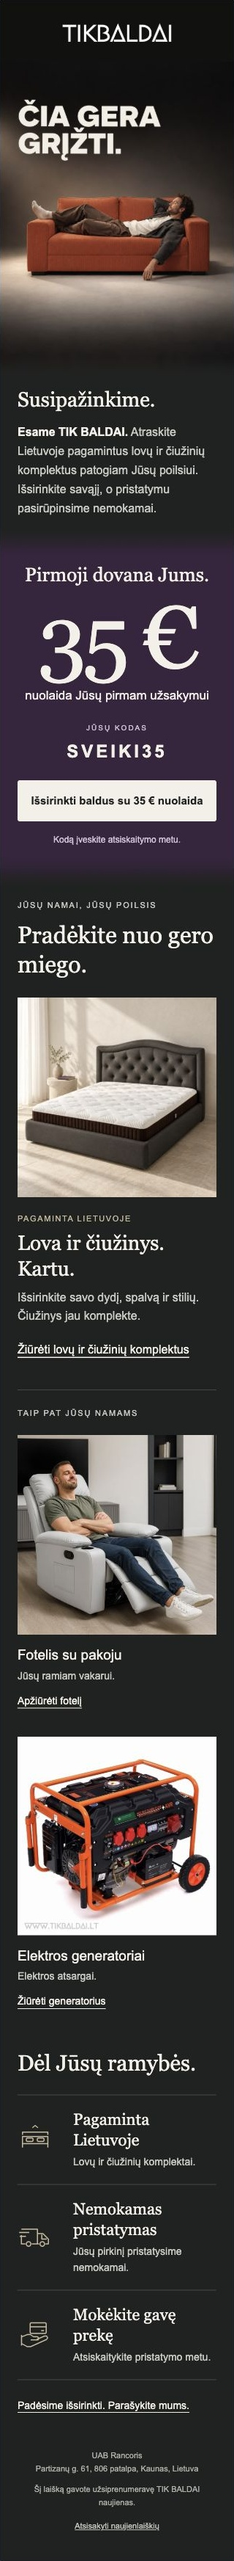
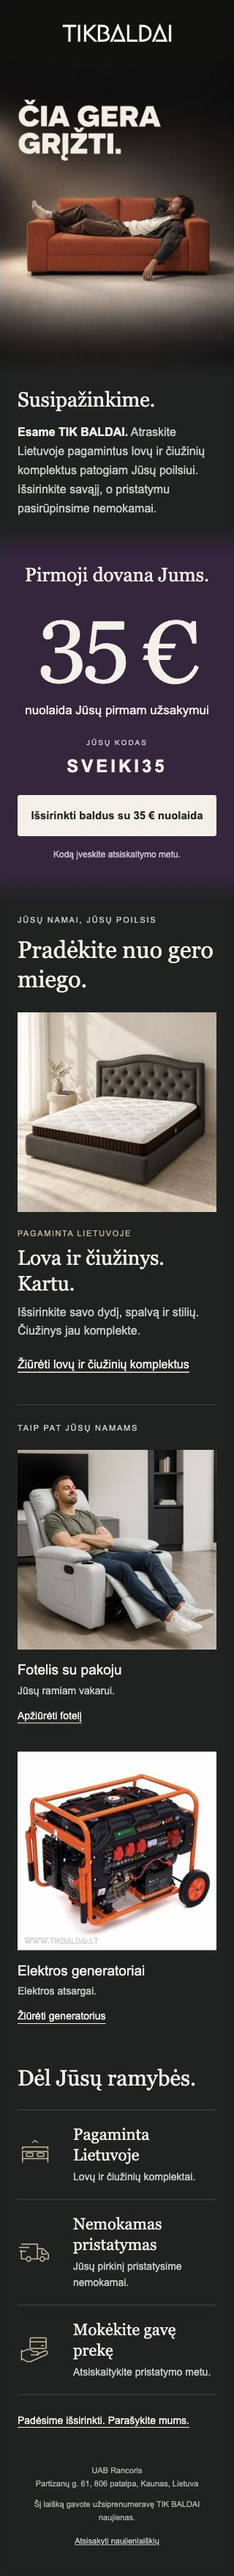
Align Welcome 1 discount numerals with euro symbol

diff --git a/welcome-01/email.html b/welcome-01/email.html
@@ -19,7 +19,7 @@
 <tr><td style="padding:0;font-size:0;line-height:0;background-color:#202221;background-image:linear-gradient(#202221,#38243F);"><img src="https://raw.githubusercontent.com/elaiskai/tikbaldai/487eefb3aa6b625d4db31dfb89e7e63076cf1da3/assets/welcome-01/offer-transition-in-v4-6524af04d59c.png" width="600" alt="" style="display:block;width:100%;max-width:600px;height:auto;border:0;margin:-1px 0;"></td></tr>
 <tr><td align="center" class="inner-pad" bgcolor="#38243F" style="padding:3px 24px 12px;background-color:#38243F;">
  <p style="margin:0 0 2px;font-family:Georgia,Times New Roman,serif;font-size:26px;line-height:34px;color:#F4F0E8;">Pirmoji dovana Jums.</p>
- <p style="margin:0;font-family:Georgia,Times New Roman,serif;font-size:120px;line-height:132px;font-weight:400;letter-spacing:-5px;color:#F4F0E8;">35 €</p>
+ <p style="margin:0;font-family:Georgia,Times New Roman,serif;font-size:120px;line-height:132px;font-weight:400;letter-spacing:-5px;color:#F4F0E8;"><span style="vertical-align:20px;">35</span> €</p>
  <p style="margin:0 0 24px;font-family:Arial,Helvetica,sans-serif;font-size:17px;line-height:25px;color:#F4F0E8;">nuolaida Jūsų pirmam užsakymui</p>
  <p style="margin:0 0 9px;font-family:Arial,Helvetica,sans-serif;font-size:10px;line-height:17px;letter-spacing:2px;color:#D3C2D8;">JŪSŲ KODAS</p>
  <p style="margin:0 0 24px;font-family:Arial,Helvetica,sans-serif;font-size:24px;line-height:30px;font-weight:700;letter-spacing:4px;color:#F4F0E8;">SVEIKI35</p>

diff --git a/welcome-01/qa-stripped.html b/welcome-01/qa-stripped.html
@@ -20,7 +20,7 @@
 <tr><td style="padding:0;font-size:0;line-height:0;background-color:#202221;background-image:linear-gradient(#202221,#38243F);"><img alt="" src="https://raw.githubusercontent.com/elaiskai/tikbaldai/487eefb3aa6b625d4db31dfb89e7e63076cf1da3/assets/welcome-01/offer-transition-in-v4-6524af04d59c.png" style="display:block;width:100%;max-width:600px;height:auto;border:0;margin:-1px 0;" width="600"/></td></tr>
 <tr><td align="center" bgcolor="#38243F" class="inner-pad" style="padding:3px 24px 12px;background-color:#38243F;">
 <p style="margin:0 0 2px;font-family:Georgia,Times New Roman,serif;font-size:26px;line-height:34px;color:#F4F0E8;">Pirmoji dovana Jums.</p>
-<p style="margin:0;font-family:Georgia,Times New Roman,serif;font-size:120px;line-height:132px;font-weight:400;letter-spacing:-5px;color:#F4F0E8;">35 €</p>
+<p style="margin:0;font-family:Georgia,Times New Roman,serif;font-size:120px;line-height:132px;font-weight:400;letter-spacing:-5px;color:#F4F0E8;"><span style="vertical-align:20px;">35</span> €</p>
 <p style="margin:0 0 24px;font-family:Arial,Helvetica,sans-serif;font-size:17px;line-height:25px;color:#F4F0E8;">nuolaida Jūsų pirmam užsakymui</p>
 <p style="margin:0 0 9px;font-family:Arial,Helvetica,sans-serif;font-size:10px;line-height:17px;letter-spacing:2px;color:#D3C2D8;">JŪSŲ KODAS</p>
 <p style="margin:0 0 24px;font-family:Arial,Helvetica,sans-serif;font-size:24px;line-height:30px;font-weight:700;letter-spacing:4px;color:#F4F0E8;">SVEIKI35</p>
